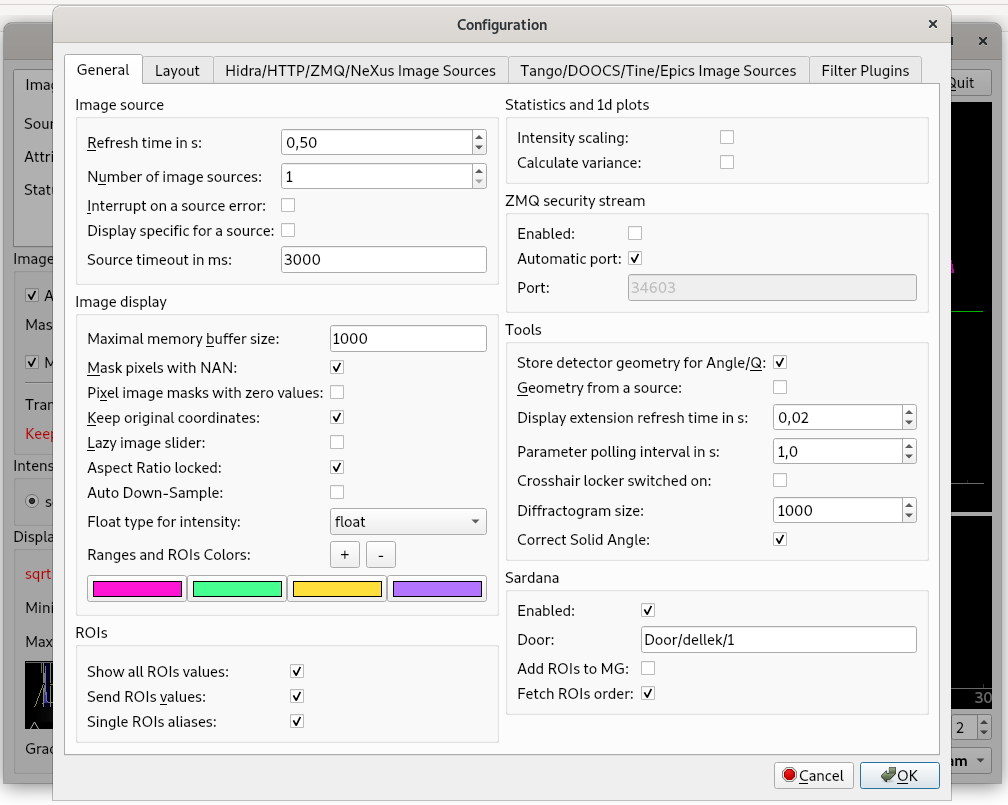
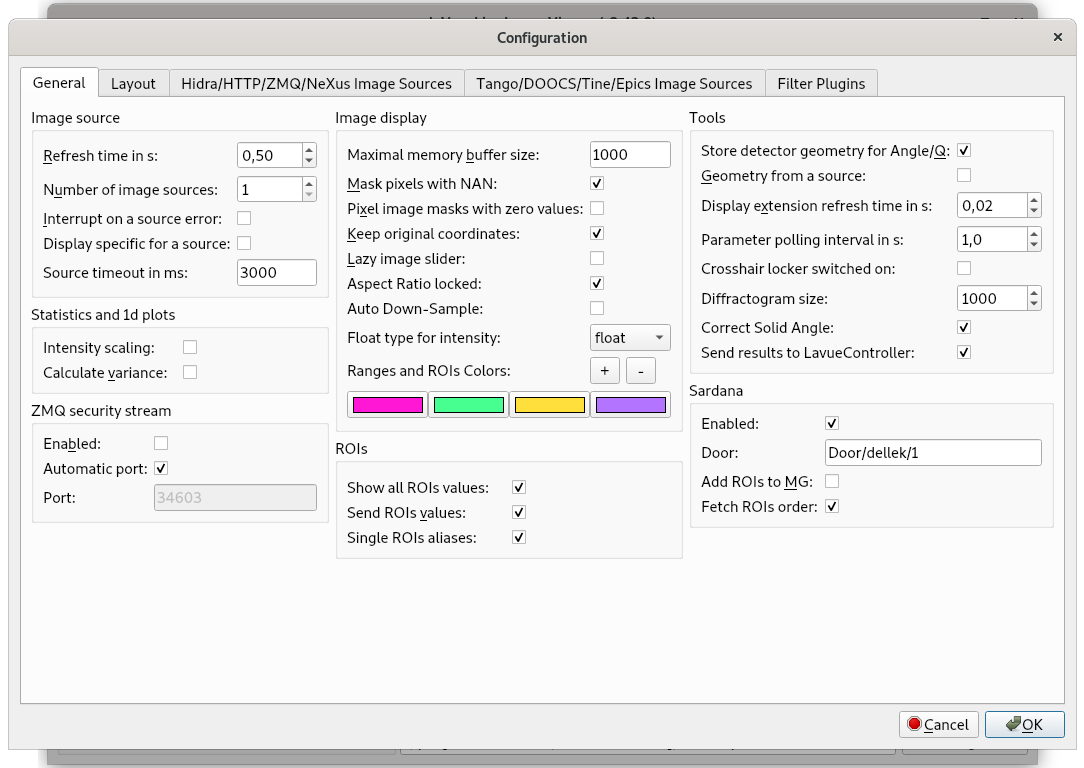
update help

Changed region(s): [[0.0, 0.0, 1.0, 1.0], [0.2768, 0.8125, 0.3075, 0.9062]]

diff --git a/lavuelib/help/LaVue---General-Settings_98092147.html b/lavuelib/help/LaVue---General-Settings_98092147.html
@@ -44,7 +44,7 @@
         
                         </div>
                     <div id="main-content" class="wiki-content group">
-                    <p>The first tab of the configuration dialog contains <strong>General Settings</strong>. It is divided into a few groups:</p><p><span class="confluence-embedded-file-wrapper confluence-embedded-manual-size"><img class="confluence-embedded-image"  src="attachments/98092147/145596264.png" data-image-src="attachments/98092147/145596264.png" data-unresolved-comment-count="0" data-linked-resource-id="145596264" data-linked-resource-version="5" data-linked-resource-type="attachment" data-linked-resource-default-alias="lavuegeneralconfig.png" data-base-url="https://confluence.desy.de" data-linked-resource-content-type="image/png" data-linked-resource-container-id="98092147" data-linked-resource-container-version="27"></span></p><p><strong>Image source</strong></p><ul><li><strong>Refresh rate in s: </strong>select a minimal time between consecutive frames</li><li><strong>Number of image sources:  </strong>a number of different image sources  from which images should be stitched</li><li><strong>Interrupt on source errors: </strong>stops live image viewing on image source errors</li><li><strong>Display specific for a source:</strong> store/retrieve display parameters for an each image source separately</li><li><strong>Source timeout in ms:</strong> maximal time in milliseconds to wait for a response , e.g. from  Hidra or HTTP image sources</li></ul><p><strong>Image display</strong></p><ul><li><strong>Maximal memory buffer size:</strong> maximal frame number in the memory buffer</li><li><strong>Mask pixels with NAN: </strong>store masked pixels as a float Not-A-Number (NAN)</li><li><strong>Pixel masks with zero values: </strong>causes that zero pixel values of mask image are interpreted as masking</li><li><strong>Keep original coordinates:</strong> causes the 2D-plot axes transforms with image transformation</li><li><strong>Lazy image slider: </strong>plot a new image after the image slider is focused out</li><li><strong>Aspect Ratio locked: </strong>sets the aspect ratio to 1:1 in the 2D-plot</li><li><strong>Auto Down-Sample:</strong> turns on auto-down-sampling mode of pyqtgraph</li><li><strong>Float type for</strong> <strong>intensity:  </strong>type to which intensity is converted if it is changed to float type</li><li><strong>Ranges and ROIs Colors:</strong> allows to defined colors of Ranges or ROIs selection frames. Colors are used cyclically</li></ul><p><strong>ROIs</strong></p><ul><li><strong>Show all ROIs values:</strong> calculates ROIs sum values for all ROI frames</li><li><strong>Send ROIs values:</strong> sends ROIs sum values to<code> LaVueController</code> tango server</li><li><strong>Single ROIs aliases:</strong> adds<code> rois1</code>, <code>roi2</code>, <code>roi3</code>,<code> ...</code> aliases if a number of rois is higher than their aliases</li></ul><p><strong>Statistics and 1d plots</strong></p><ul><li><strong>Intensity scaling:</strong> applies the intensity display scaling to image statistics and 1d-plots</li><li><strong>Calculate variance:</strong> perform calculations of variance from image pixel intensities</li></ul><p><strong>ZMQ security stream</strong></p><ul><li><strong>Enabled: </strong>turns on sending the ZMQ security stream with basic information about the image, e.g. maximal intensity</li><li><strong>Automatic port:</strong> selects a port number for the ZMQ security stream automatically</li><li><strong>Port: </strong>defines a port number for the ZMQ security stream</li></ul><p><strong>Tools</strong></p><ul><li><strong>Store de</strong><strong>tector geometry for </strong><strong>Angle/Q:</strong> store the detector geometry for the Angle/Q tool in the configuration settings</li><li><strong>Geometry form a source:</strong> fetch metadata parameters describing detector geometry from the image source</li><li><strong>Display extension refresh time in s: </strong>Minimum refresh time for display extensions</li><li><strong>Parameter polling interval in s: </strong>time in seconds between read-outs of detector tango attributes in the Parameters tool</li><li><strong>Crosshair locker switched on:</strong>  initial status of intensity crosshair locker</li><li><strong>Diffractogram size:</strong> number of points in the diffractogram</li><li><strong>Correct Solid Angle:</strong> correct solid angle flag for diffractogram</li></ul><p><strong>Sardana</strong></p><ul><li><strong>Enabled: </strong>turns on communication with Sardana</li><li><strong>Door: </strong>Door tango device to communicate with Sardana</li><li><strong>Add ROIs to MG:</strong> causes the ROIs Apply button adds the corresponding ROIs aliases into the current Sardana Measurement Group</li><li><strong>Fetch ROIs order: </strong>read a ROIs order from Sardana environment variables</li></ul><p><br/></p><p><br/></p><p><br/></p>
+                    <p>The first tab of the configuration dialog contains <strong>General Settings</strong>. It is divided into a few groups:</p><p><span class="confluence-embedded-file-wrapper confluence-embedded-manual-size"><img class="confluence-embedded-image"  src="attachments/98092147/145596264.png" data-image-src="attachments/98092147/145596264.png" data-unresolved-comment-count="0" data-linked-resource-id="145596264" data-linked-resource-version="6" data-linked-resource-type="attachment" data-linked-resource-default-alias="lavuegeneralconfig.png" data-base-url="https://confluence.desy.de" data-linked-resource-content-type="image/png" data-linked-resource-container-id="98092147" data-linked-resource-container-version="28"></span></p><p><strong>Image source</strong></p><ul><li><strong>Refresh rate in s: </strong>select a minimal time between consecutive frames</li><li><strong>Number of image sources:  </strong>a number of different image sources  from which images should be stitched</li><li><strong>Interrupt on source errors: </strong>stops live image viewing on image source errors</li><li><strong>Display specific for a source:</strong> store/retrieve display parameters for an each image source separately</li><li><strong>Source timeout in ms:</strong> maximal time in milliseconds to wait for a response , e.g. from  Hidra or HTTP image sources</li></ul><p><strong>Statistics and 1d plots</strong></p><ul><li><strong>Intensity scaling:</strong> applies the intensity display scaling to image statistics and 1d-plots</li><li><strong>Calculate variance:</strong> perform calculations of variance from image pixel intensities</li></ul><p><strong>ZMQ security stream</strong></p><ul><li><strong>Enabled: </strong>turns on sending the ZMQ security stream with basic information about the image, e.g. maximal intensity</li><li><strong>Automatic port:</strong> selects a port number for the ZMQ security stream automatically</li><li><strong>Port: </strong>defines a port number for the ZMQ security stream</li></ul><p><strong>Image display</strong></p><ul><li><strong>Maximal memory buffer size:</strong> maximal frame number in the memory buffer</li><li><strong>Mask pixels with NAN: </strong>store masked pixels as a float Not-A-Number (NAN)</li><li><strong>Pixel masks with zero values: </strong>causes that zero pixel values of mask image are interpreted as masking</li><li><strong>Keep original coordinates:</strong> causes the 2D-plot axes transforms with image transformation</li><li><strong>Lazy image slider: </strong>plot a new image after the image slider is focused out</li><li><strong>Aspect Ratio locked: </strong>sets the aspect ratio to 1:1 in the 2D-plot</li><li><strong>Auto Down-Sample:</strong> turns on auto-down-sampling mode of pyqtgraph</li><li><strong>Float type for</strong> <strong>intensity:  </strong>type to which intensity is converted if it is changed to float type</li><li><strong>Ranges and ROIs Colors:</strong> allows to defined colors of Ranges or ROIs selection frames. Colors are used cyclically</li></ul><p><strong>ROIs</strong></p><ul><li><strong>Show all ROIs values:</strong> calculates ROIs sum values for all ROI frames</li><li><strong>Send ROIs values:</strong> sends ROIs sum values to<code> LaVueController</code> tango server</li><li><strong>Single ROIs aliases:</strong> adds<code> rois1</code>, <code>roi2</code>, <code>roi3</code>,<code> ...</code> aliases if a number of rois is higher than their aliases</li></ul><p><strong>Tools</strong></p><ul><li><strong>Store de</strong><strong>tector geometry for </strong><strong>Angle/Q:</strong> store the detector geometry for the Angle/Q tool in the configuration settings</li><li><strong>Geometry form a source:</strong> fetch metadata parameters describing detector geometry from the image source</li><li><strong>Display extension refresh time in s: </strong>Minimum refresh time for display extensions</li><li><strong>Parameter polling interval in s: </strong>time in seconds between read-outs of detector tango attributes in the Parameters tool</li><li><strong>Crosshair locker switched on:</strong>  initial status of intensity crosshair locker</li><li><strong>Diffractogram size:</strong> number of points in the diffractogram</li><li><strong>Correct Solid Angle:</strong> correct solid angle flag for diffractogram</li><li><strong>Send results to LavueController:</strong> sends the current tool results to <code>LaVueController</code> tango server</li></ul><p><strong>Sardana</strong></p><ul><li><strong>Enabled: </strong>turns on communication with Sardana</li><li><strong>Door: </strong>Door tango device to communicate with Sardana</li><li><strong>Add ROIs to MG:</strong> causes the ROIs Apply button adds the corresponding ROIs aliases into the current Sardana Measurement Group</li><li><strong>Fetch ROIs order: </strong>read a ROIs order from Sardana environment variables</li></ul><p><br/></p><p><br/></p><p><br/></p>
                     </div>
 
                                         </div><section><!-- <div class="pageSection group">
@@ -66,6 +66,9 @@
                                 <a href="attachments/98092147/167954386.png">lavuegeneralconfig.png</a> (image/png)
                                 <br/>
                                                             <img src="images/icons/bullet_blue.gif" height="8" width="8" alt=""/>
+                                <a href="attachments/98092147/167957140.png">lavuegeneralconfig.png</a> (image/png)
+                                <br/>
+                                                            <img src="images/icons/bullet_blue.gif" height="8" width="8" alt=""/>
                                 <a href="attachments/98092147/145596264.png">lavuegeneralconfig.png</a> (image/png)
                                 <br/>
                                                     </div>
@@ -75,7 +78,7 @@
                 </div>             </div> 
             <div id="footer" role="contentinfo">
                 <section class="footer-body">
-                    <!--<p>Document generated by Confluence on 19. cze. 2020 12:36</p>-->
+                    <!--<p>Document generated by Confluence on 22. cze. 2020 12:47</p>-->
                     <!--<div id="footer-logo"><a href="http://www.atlassian.com/">Atlassian</a></div>-->
                 </section>
             </div>

diff --git a/lavuelib/help/LaVue---LavueController-server_98091989.html b/lavuelib/help/LaVue---LavueController-server_98091989.html
@@ -38,7 +38,7 @@
         
                         </div>
                     <div id="main-content" class="wiki-content group">
-                    <p><strong>LavueController</strong> server allows for communication with LaVue GUI via tango interface, e.g. with user scripts or macros</p><p><span class="confluence-embedded-file-wrapper confluence-embedded-manual-size"><img class="confluence-embedded-image"  src="attachments/98091989/143223291.png" data-image-src="attachments/98091989/143223291.png" data-unresolved-comment-count="0" data-linked-resource-id="143223291" data-linked-resource-version="2" data-linked-resource-type="attachment" data-linked-resource-default-alias="lavuecontrollerpogo.png" data-base-url="https://confluence.desy.de" data-linked-resource-content-type="image/png" data-linked-resource-container-id="98091989" data-linked-resource-container-version="25"></span></p><p><br/></p><h3 id="LaVue-LavueControllerserver-Attributes">Attributes</h3><p>The user can <strong>pass to</strong> and <strong>read back</strong> from the LaVue GUI  the following attributes:</p><ul><li><strong>BeamCenterX</strong><strong>:</strong> x-coordinate of the beam center in <em>pixels</em>, e.g. used in <code>Angle/Q Tool</code></li><li><strong>BeamCenterY: </strong>y-coordinate of the beam center in <em>pixels</em>, e.g. used in<code> Angle/Q Tool</code></li><li><strong>PixelSizeX: </strong>x-size of the detector pixel  in <em>micrometers</em>, e.g. used in<code> Angle/Q Tool</code></li><li><strong>PixelSizeY: </strong>y-size of the detector pixel  in <em>micrometers</em>, e.g. used in<code> Angle/Q Tool</code></li><li><strong>DetectorDistance:</strong> detector distance from the sample in <em>mm</em>, e.g. used in <code>Angle/Q Tool</code></li><li><strong>Energy:  </strong>beam energy in <em>eV</em>, e.g. used in <code>Angle/Q Tool</code></li><li><strong>DetectorROIs: </strong><a rel="nofollow" class="external-link" href="https://www.json.org/">JSON</a> dictionary<strong> </strong>with  Regions Of Interests ranges, e.g.<br/><code>{&quot;pilatusrois&quot;: [[67, 131, 124, 153], [67, 69, 117, 119], [134, 129, 184, 179], [125, 72, 175, 122]]}</code></li></ul><p>Moreover the user can <strong>read</strong> from the LaVue GUI:</p><ul><li><strong>DetectorROIsValues</strong>: <a rel="nofollow" class="external-link" href="https://www.json.org/">JSON</a> dictionary with Regions Of Interests sums, e.g.<br/><code>{&quot;pilatusrois&quot;: [8167.0, 2262.0, 478.0, 1069.0]}</code></li></ul><p>Finally, the user can change state of lavue by <strong>writing </strong> to</p><ul><li><strong>LavueState:</strong> <a class="external-link" rel="nofollow" href="https://www.json.org/">JSON</a> dictionary with lavue configuration with parameters corresponding to command-line parameters of lavue  (to display them:<code> lavue -h</code>). The currently supported commands are:  <code>source, configuration, start, stop, imagefile, offset, rangewindow, dsfactor, dsreduction, filters, mbuffer, maskfile, maskhighvalue, transformation, scaling, levels, autofactor, gradient, viewrange, tool, tangodevice, doordevice, analysisdevice, log</code>.</li></ul><p>             e.g.</p><pre class="moz-quote-pre">         import tango
+                    <p><strong>LavueController</strong> server allows for communication with LaVue GUI via tango interface, e.g. with user scripts or macros</p><p><span class="confluence-embedded-file-wrapper confluence-embedded-manual-size"><img class="confluence-embedded-image"  src="attachments/98091989/143223291.png" data-image-src="attachments/98091989/143223291.png" data-unresolved-comment-count="0" data-linked-resource-id="143223291" data-linked-resource-version="3" data-linked-resource-type="attachment" data-linked-resource-default-alias="lavuecontrollerpogo.png" data-base-url="https://confluence.desy.de" data-linked-resource-content-type="image/png" data-linked-resource-container-id="98091989" data-linked-resource-container-version="26"></span></p><p><br/></p><h3 id="LaVue-LavueControllerserver-Attributes">Attributes</h3><p>The user can <strong>pass to</strong> and <strong>read back</strong> from the LaVue GUI  the following attributes:</p><ul><li><strong>BeamCenterX</strong><strong>:</strong> x-coordinate of the beam center in <em>pixels</em>, e.g. used in <code>Angle/Q Tool</code></li><li><strong>BeamCenterY: </strong>y-coordinate of the beam center in <em>pixels</em>, e.g. used in<code> Angle/Q Tool</code></li><li><strong>PixelSizeX: </strong>x-size of the detector pixel  in <em>micrometers</em>, e.g. used in<code> Angle/Q Tool</code></li><li><strong>PixelSizeY: </strong>y-size of the detector pixel  in <em>micrometers</em>, e.g. used in<code> Angle/Q Tool</code></li><li><strong>DetectorDistance:</strong> detector distance from the sample in <em>mm</em>, e.g. used in <code>Angle/Q Tool</code></li><li><strong>Energy:  </strong>beam energy in <em>eV</em>, e.g. used in <code>Angle/Q Tool</code></li><li><strong>DetectorROIs: </strong><a href="https://www.json.org/" rel="nofollow" class="external-link">JSON</a> dictionary<strong> </strong>with  Regions Of Interests ranges, e.g.<br/><code>{&quot;pilatusrois&quot;: [[67, 131, 124, 153], [67, 69, 117, 119], [134, 129, 184, 179], [125, 72, 175, 122]]}</code></li></ul><p>Moreover the user can <strong>read</strong> from the LaVue GUI:</p><ul><li><strong>DetectorROIsValues</strong>: <a href="https://www.json.org/" rel="nofollow" class="external-link">JSON</a> dictionary with Regions Of Interests sums, e.g.<br/><code>{&quot;pilatusrois&quot;: [8167.0, 2262.0, 478.0, 1069.0]}</code></li><li><strong>ToolResults: </strong><a href="https://www.json.org/" class="external-link" rel="nofollow">JSON</a> dictionary<strong> </strong>with tool results, i.e. 1d diffractogram plot or position of peaks</li></ul><p>Finally, the user can change state of lavue by <strong>writing </strong> to</p><ul><li><strong>LavueState:</strong> <a href="https://www.json.org/" class="external-link" rel="nofollow">JSON</a> dictionary with lavue configuration with parameters corresponding to command-line parameters of lavue  (to display them:<code> lavue -h</code>). The currently supported commands are:  <code>source, configuration, start, stop, imagefile, offset, rangewindow, dsfactor, dsreduction, filters, mbuffer, maskfile, maskhighvalue, transformation, scaling, levels, autofactor, gradient, viewrange, tool, tangodevice, doordevice, analysisdevice, log</code>.</li></ul><p>             e.g.</p><pre class="moz-quote-pre">         import tango
          import json
 
          lc = tango.DeviceProxy(&quot;p09/lavuecontroller/1&quot;)
@@ -89,6 +89,9 @@
                                 <a href="attachments/98091989/156854884.png">lavuecontrollerpogo.png</a> (image/png)
                                 <br/>
                                                             <img src="images/icons/bullet_blue.gif" height="8" width="8" alt=""/>
+                                <a href="attachments/98091989/167957123.png">lavuecontrollerpogo.png</a> (image/png)
+                                <br/>
+                                                            <img src="images/icons/bullet_blue.gif" height="8" width="8" alt=""/>
                                 <a href="attachments/98091989/143223291.png">lavuecontrollerpogo.png</a> (image/png)
                                 <br/>
                                                     </div>
@@ -98,7 +101,7 @@
                 </div>             </div> 
             <div id="footer" role="contentinfo">
                 <section class="footer-body">
-                    <!--<p>Document generated by Confluence on 19. cze. 2020 12:36</p>-->
+                    <!--<p>Document generated by Confluence on 22. cze. 2020 12:47</p>-->
                     <!--<div id="footer-logo"><a href="http://www.atlassian.com/">Atlassian</a></div>-->
                 </section>
             </div>

diff --git a/lavuelib/help/LaVue---Installation_98091815.html b/lavuelib/help/LaVue---Installation_98091815.html
@@ -55,7 +55,7 @@ $ <span class="pl-s1">pip install pytango</span></pre><p><br/></p><p><br/></p><p
                 </div>             </div> 
             <div id="footer" role="contentinfo">
                 <section class="footer-body">
-                    <!--<p>Document generated by Confluence on 19. cze. 2020 12:36</p>-->
+                    <!--<p>Document generated by Confluence on 22. cze. 2020 12:47</p>-->
                     <!--<div id="footer-logo"><a href="http://www.atlassian.com/">Atlassian</a></div>-->
                 </section>
             </div>

diff --git a/lavuelib/help/129385459.html b/lavuelib/help/129385459.html
@@ -66,7 +66,7 @@
                 </div>             </div> 
             <div id="footer" role="contentinfo">
                 <section class="footer-body">
-                    <!--<p>Document generated by Confluence on 19. cze. 2020 12:36</p>-->
+                    <!--<p>Document generated by Confluence on 22. cze. 2020 12:47</p>-->
                     <!--<div id="footer-logo"><a href="http://www.atlassian.com/">Atlassian</a></div>-->
                 </section>
             </div>

diff --git a/lavuelib/help/98092105.html b/lavuelib/help/98092105.html
@@ -63,7 +63,7 @@
                 </div>             </div> 
             <div id="footer" role="contentinfo">
                 <section class="footer-body">
-                    <!--<p>Document generated by Confluence on 19. cze. 2020 12:36</p>-->
+                    <!--<p>Document generated by Confluence on 22. cze. 2020 12:47</p>-->
                     <!--<div id="footer-logo"><a href="http://www.atlassian.com/">Atlassian</a></div>-->
                 </section>
             </div>

diff --git a/lavuelib/help/98092127.html b/lavuelib/help/98092127.html
@@ -69,7 +69,7 @@
                 </div>             </div> 
             <div id="footer" role="contentinfo">
                 <section class="footer-body">
-                    <!--<p>Document generated by Confluence on 19. cze. 2020 12:36</p>-->
+                    <!--<p>Document generated by Confluence on 22. cze. 2020 12:47</p>-->
                     <!--<div id="footer-logo"><a href="http://www.atlassian.com/">Atlassian</a></div>-->
                 </section>
             </div>

diff --git a/lavuelib/help/98092151.html b/lavuelib/help/98092151.html
@@ -69,7 +69,7 @@
                 </div>             </div> 
             <div id="footer" role="contentinfo">
                 <section class="footer-body">
-                    <!--<p>Document generated by Confluence on 19. cze. 2020 12:36</p>-->
+                    <!--<p>Document generated by Confluence on 22. cze. 2020 12:47</p>-->
                     <!--<div id="footer-logo"><a href="http://www.atlassian.com/">Atlassian</a></div>-->
                 </section>
             </div>

diff --git a/lavuelib/help/LaVue---1d-Plot-Tool_98092122.html b/lavuelib/help/LaVue---1d-Plot-Tool_98092122.html
@@ -63,7 +63,7 @@
                 </div>             </div> 
             <div id="footer" role="contentinfo">
                 <section class="footer-body">
-                    <!--<p>Document generated by Confluence on 19. cze. 2020 12:36</p>-->
+                    <!--<p>Document generated by Confluence on 22. cze. 2020 12:47</p>-->
                     <!--<div id="footer-logo"><a href="http://www.atlassian.com/">Atlassian</a></div>-->
                 </section>
             </div>

diff --git a/lavuelib/help/LaVue---2D-plot_99485616.html b/lavuelib/help/LaVue---2D-plot_99485616.html
@@ -60,7 +60,7 @@
                 </div>             </div> 
             <div id="footer" role="contentinfo">
                 <section class="footer-body">
-                    <!--<p>Document generated by Confluence on 19. cze. 2020 12:36</p>-->
+                    <!--<p>Document generated by Confluence on 22. cze. 2020 12:47</p>-->
                     <!--<div id="footer-logo"><a href="http://www.atlassian.com/">Atlassian</a></div>-->
                 </section>
             </div>

diff --git a/lavuelib/help/LaVue---Configuration_98091985.html b/lavuelib/help/LaVue---Configuration_98091985.html
@@ -49,7 +49,7 @@
                 </div>             </div> 
             <div id="footer" role="contentinfo">
                 <section class="footer-body">
-                    <!--<p>Document generated by Confluence on 19. cze. 2020 12:36</p>-->
+                    <!--<p>Document generated by Confluence on 22. cze. 2020 12:47</p>-->
                     <!--<div id="footer-logo"><a href="http://www.atlassian.com/">Atlassian</a></div>-->
                 </section>
             </div>

diff --git a/lavuelib/help/LaVue---DOOCS-Property_143202773.html b/lavuelib/help/LaVue---DOOCS-Property_143202773.html
@@ -63,7 +63,7 @@
                 </div>             </div> 
             <div id="footer" role="contentinfo">
                 <section class="footer-body">
-                    <!--<p>Document generated by Confluence on 19. cze. 2020 12:36</p>-->
+                    <!--<p>Document generated by Confluence on 22. cze. 2020 12:47</p>-->
                     <!--<div id="footer-logo"><a href="http://www.atlassian.com/">Atlassian</a></div>-->
                 </section>
             </div>

diff --git a/lavuelib/help/LaVue---Diffractogram-Tool_167954392.html b/lavuelib/help/LaVue---Diffractogram-Tool_167954392.html
@@ -63,7 +63,7 @@
                 </div>             </div> 
             <div id="footer" role="contentinfo">
                 <section class="footer-body">
-                    <!--<p>Document generated by Confluence on 19. cze. 2020 12:36</p>-->
+                    <!--<p>Document generated by Confluence on 22. cze. 2020 12:47</p>-->
                     <!--<div id="footer-logo"><a href="http://www.atlassian.com/">Atlassian</a></div>-->
                 </section>
             </div>
